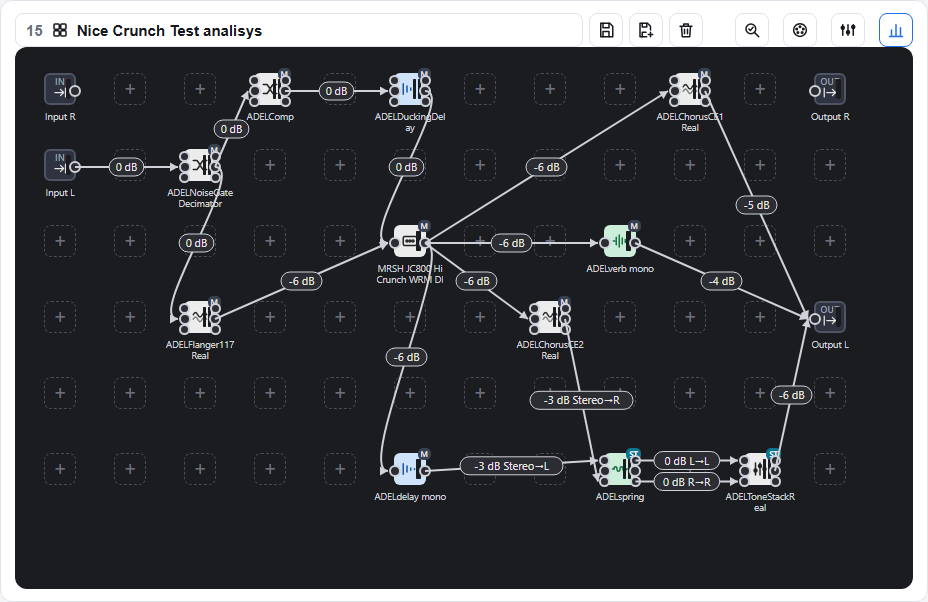
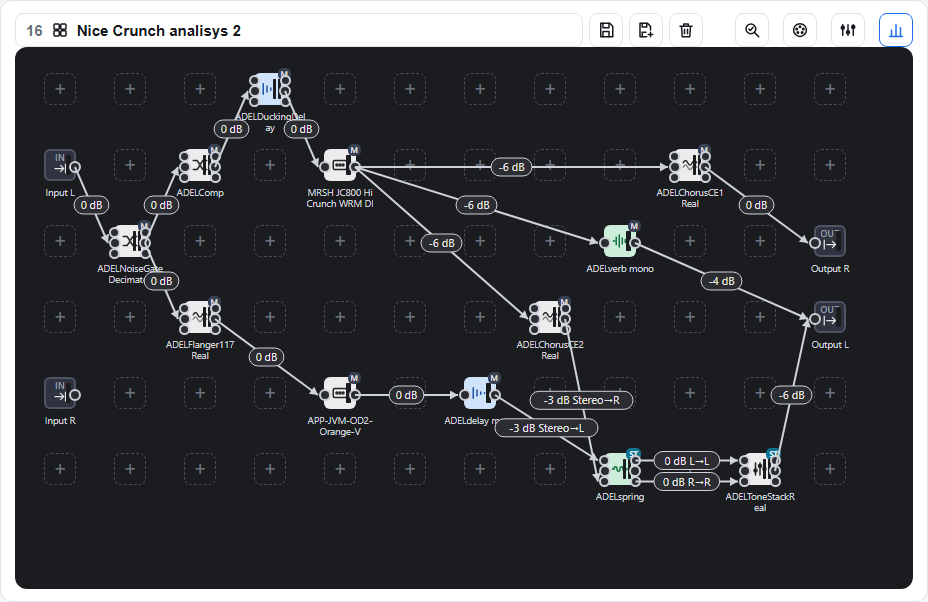
README: features in detail, preset analysis, screenshots with the current preset
Also fixes a leftover Italian word in the analysis text of the page.

diff --git a/control_page.h b/control_page.h
@@ -1548,7 +1548,7 @@ function analyzeNet(){
       const key=t+":"+Math.min(a,b)+":"+Math.max(a,b);if(seenPair.has(key))continue;seenPair.add(key);
       const names=x=>x.length?x.map(q=>esc(anLab(q.id))).join(", "):"(no block of its own)";
       R("warning","Parallel paths that add up in "+nm(t),
-        nm(a)+" e "+nm(b)+" start from the same signal and meet again. One branch goes through "+names(ha.length?ha:ba)+", the other through "+names(hb.length?hb:bb)+": different models or effects can delay or phase-shift the signal differently and, when summed, produce a comb effect (frequency notches), loss of level or a thin sound. With a delay D between the two paths the first cancellation falls at 1/(2D): about 500 Hz divided by the delay in ms (1 ms -> 500 Hz, 0.5 ms -> 1 kHz), then at 3/(2D), 5/(2D)...; inverting the polarity of one branch moves the notches.",
+        nm(a)+" and "+nm(b)+" start from the same signal and meet again. One branch goes through "+names(ha.length?ha:ba)+", the other through "+names(hb.length?hb:bb)+": different models or effects can delay or phase-shift the signal differently and, when summed, produce a comb effect (frequency notches), loss of level or a thin sound. With a delay D between the two paths the first cancellation falls at 1/(2D): about 500 Hz divided by the delay in ms (1 ms -> 500 Hz, 0.5 ms -> 1 kHz), then at 3/(2D), 5/(2D)...; inverting the polarity of one branch moves the notches.",
         "Press «Measure the phase» in the «Branch phase» section above: it adds the probe and ADELphase by itself, tells you what is wrong, and «Apply the correction» configures them.",
         ha.concat(hb).map(q=>q.id),{kind:"phase",t,a,b});
     }

diff --git a/README.md b/README.md
@@ -19,7 +19,7 @@ A bare-metal guitar multi-effects processor for the **Raspberry Pi 5** with a **
 
 ![The pedalboard grid in the web page](docs/img/pedalboard.png)
 
-*The web page served by the board: a test preset with a NAM capture, compressor, noise gate, flanger, two choruses, delays, reverb, spring and tone stack, linked with series, parallel and stereo routes.*
+*The web page served by the board, showing a test preset with two NAM captures, compressor, noise gate, MXR 117 flanger, Boss CE-1 and CE-2 chorus models, ducking delay, delay, reverb, spring reverb and tone stack, linked with series, parallel and stereo routes.*
 
 ## Measured figures
 
@@ -70,6 +70,44 @@ On the running board with a test preset (one NAM, eleven other blocks, four core
 | Web page as served (gzip) | 63,364 bytes (source `control_page.h` is 190 KB) |
 | DI recorder buffer | up to about 15.7 MB for 40 s of 24-bit stereo, allocated only while a recording exists |
 | Free heap reported by the firmware after boot | about 4.1 million KB |
+## Features in detail
+
+### Pedalboard and blocks
+
+* A 6 x 12 grid. Drag from a block's output port to another block's input port to draw an arrow; the level on every arrow can be changed (in dB) and arrows can run diagonally. Series, parallel branches, splits and mixes are all just arrows. There are two inputs and two outputs.
+* Press and hold a block for about 0.6 s and a trash button appears over it; tap it to remove the block.
+* Every block has its own panel with the controls grouped in sections and a "Saved settings" menu for block presets (11 are included: Tube Screamer settings from five famous players, two Big Muff settings, a Klon setting and the Fuzz Face manufacturer's starting point, each with its source in `presets_fonti.txt`; for the other pedals no citable settings were found, so none were made up).
+
+![A delay block panel with all its sections open](docs/img/delay_panel.png)
+
+### Preset analysis
+
+The magnifier button next to the preset name opens an analysis of the preset. **It does not listen to the sound**: it reads the structure of the pedalboard and tells you, block by block, what looks wrong, why, and what to do about it, with buttons that select the blocks involved and an "Ignore" button for advice you disagree with (remembered per preset). It checks:
+
+* **Routing:** no input or no output connected, blocks that receive no signal or whose output goes nowhere (a NAM or Cab IR in that state is not computed, so it does not use CPU), blocks that are switched off, a stereo block that ends on a single output, one output channel left silent.
+* **Levels:** the estimated gain from input to output, based on the arrows' dB and the Volume and Pan controls; a warning when the signal is very low. For every NAM block it compares the input level you set with the level the capture was made at and warns when it is far off.
+* **Phase between parallel branches:** when two branches that contain different amp or cabinet models start from the same signal and are summed again, they can cancel each other (comb filtering). The analysis explains where the first notch falls for a given delay and offers the measurement below.
+* **Order and tone advice** for a guitar chain: reverb or delay placed before a NAM, no cabinet or equalizer after a NAM when the output goes to headphones or a mixer, a high cut left open after a distorted sound, a boost in the 200-500 Hz "mud" zone, a treble shelf after distortion, high gain without a noise gate. The "After the output there is" selector tells it whether a power amp and cabinet follow (then it does not suggest cabinet or EQ). Every piece of advice cites the forum posts, articles or manuals it comes from; these are indications from players' experience, not measurements.
+* **Measure the phase:** a button that does by itself what used to be done by hand. It adds a probe block (`ADELSendSweep`) and `ADELphase` to the preset, plays a 10-second sweep with the output muted, reads the verdict (phase OK, invert the polarity of one branch, delay branch A or B, the paths are not correlated, phase rotation) and, if you press "Apply the correction", writes the delay and polarity into `ADELphase`. It then measures again to confirm and puts the preset back as it was.
+
+![The preset analysis panel](docs/img/preset_analysis.png)
+
+### NAM models
+
+A2 WaveNet captures run in the ADELnam engine. Each model's input level is set from the metadata of the capture (`input_level_dbu`) and the interface's measured maximum level; bass, mid and treble controls and a per-block level offset are available. Models are uploaded from the page into the library, with an author/license note stored next to each one.
+
+### Playing live and keeping it running
+
+* **Seamless preset change**: the tails of the old preset's delays and reverbs keep ringing while the new preset starts, and the NAM states, model files and parsed presets are cached so a change takes a few milliseconds.
+* **Concert mode**: boots without Wi-Fi or page, for the safest condition on stage. It can be entered and left with the Pisound button (hold for 3 seconds).
+* **Fallback access point** and **updates over Wi-Fi**, signed with a key on the SD card.
+* **Fan and temperature control**, and a safe mode when the boot is not clean.
+
+### Tools
+
+* **DI recorder**: records the raw guitar input (24-bit stereo, up to 40 s) in memory and downloads it as a WAV file, to build test material, for example for a note tracker.
+* **Measurement tools** as blocks: `ADELSendSweep` (sweep, guitar notes, chord or pink noise at the press of a button) and `ADELphase` (polarity, delay, all-pass and phase measurement between two channels).
+* **Service functions** that can be switched on and off from the page: hum, rumble, limiter, mono, air, saturation, click, RTA, tuner and meter.
 ## Hardware
 
 * Raspberry Pi 5
